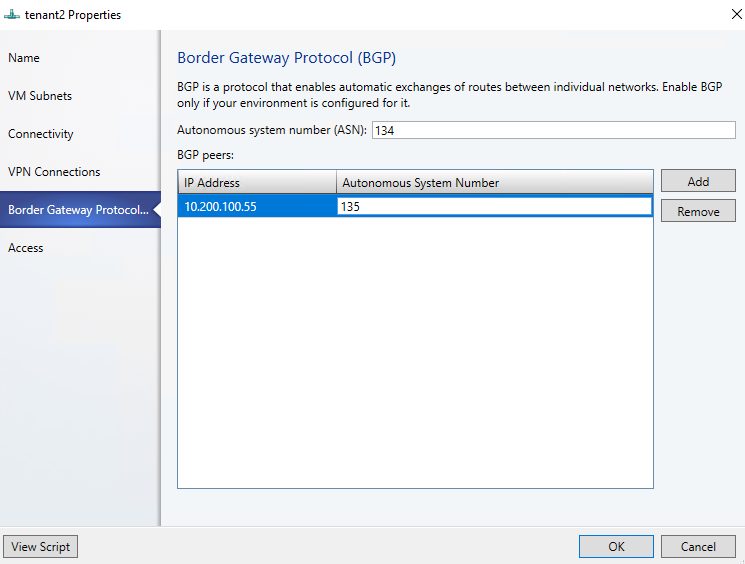
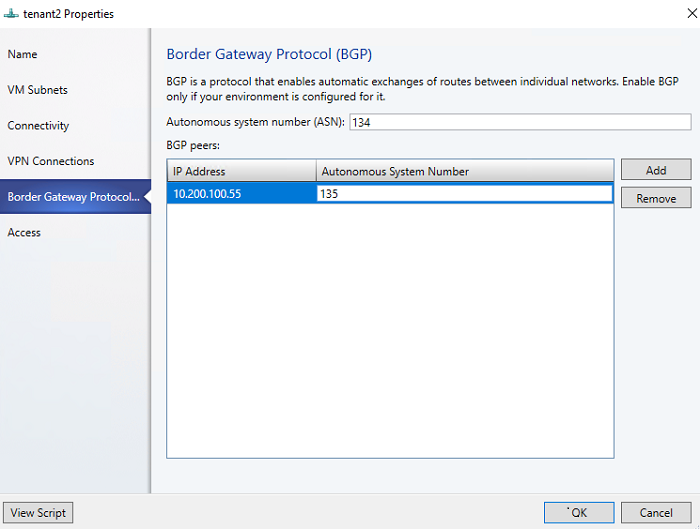
fixed the images size in GW, fix spacing at the buttets in L3 section. minor update to NC Templates and resources section.

diff --git a/SystemCenterDocs/vmm/scenario/sdn-gateway.md b/SystemCenterDocs/vmm/scenario/sdn-gateway.md
@@ -88,7 +88,7 @@ Both the templates have a default count of three virtual machines which can be c
 
 4. On the **Summary** page, review the details and click **Import**.
 
-    **Note**: You can customize the service template. [Learn More](sdn-network-controller.md#customize-the-template).
+    **Note**: You can customize the service template. [Learn more](sdn-network-controller.md#customize-the-template).
 
 ## Deploy the gateway service
 
@@ -160,10 +160,10 @@ A site-to-site IPSec connection allows you to securely access remote virtual mac
 This subnet is used to route packets out of the VM Network. This subnet need not be pre-configured in your datacenter.
 
     ![IPsec](../media/sdn-gateway2.png)
-6. Type a connection **Name**, and the IP address of the remote endpoint. Optionally configure bandwidth.
+6. Type a connection **Name**, and the IP address of the remote endpoint. Optionally, configure the bandwidth.
 7. In **Authentication**, select the type of authentication you want to use. If you choose to authenticate by using a Run As account, create a user account with a user name, and the IPSec key as the password for the account.
 8. In **Routes**, type all the remote subnets that you want to connect to.
-9. If you selected **Enable Border Gateway Protocol (BGP)** then you can leave this screen blank and instead fill out your ASN, peer BGP IP and its ASN on the **Border Gateway Protocol** tab as shown below:
+9. If you selected **Enable Border Gateway Protocol (BGP)**, then you can leave this screen blank and instead fill out your ASN, peer BGP IP and its ASN on the **Border Gateway Protocol** tab as shown below:
 
     ![IPsec](../media/sdn-gateway3.png)
 10. On the **Advanced** tab, accept the default settings.
@@ -192,6 +192,7 @@ A S2S GRE connection allows you to access remote virtual machines and services f
 ### Validate an L3 connection
 
 An L3 gateway acts as a bridge between the physical infrastructure in the datacenter and the virtualized infrastructure in the Hyper-V Network Virtualization cloud. To learn more, check these articles: [Windows server gateway as a forwarding gateway](https://technet.microsoft.com/library/dn313101.aspx#bkmk_private) and [RAS gateway high availability](https://technet.microsoft.com/en-us/windows-server-docs/networking/sdn/technologies/network-function-virtualization/ras-gateway-high-availability).
+
 1. Ensure you're logged on as an administrator on the VMM server.
 2. Run the following script:
 

diff --git a/SystemCenterDocs/vmm/scenario/sdn-network-controller.md b/SystemCenterDocs/vmm/scenario/sdn-network-controller.md
@@ -88,10 +88,8 @@ Here's what you need to do to set up a SDN network controller
 **NcSetup.cr** | Custom resource file | A library resource containing scripts used to set up the network .
 **ServerCertificate.cr** | Custom resource file | Library resource containing the private key for the network controller in .pfx format.
 **NcCertificate.cr** | Custom resource file | Library resource containing the trusted root certificate (.CER) for the network controller. This is used for secure communications between the network controller and other sub-services (For example, SLB MUXes).
-**TrustedRootCertificate.cr** | Custom resource file | Library resource containing the certificate public key (.cer), imported as the trusted root certificate to validate the SSL certificate.
+**TrustedRootCertificate.cr** | Custom resource file | Library resource containing the CA public key (.cer), imported as the trusted root certificate to validate the SSL certificate.
 **EdgeDeployment.cr** | Template | Used for installing SLB MUX roles and gateway roles (for example, VPN)
-
-
 
 ## Set up Active Directory groups
 Create security groups for network controller management and clients.
